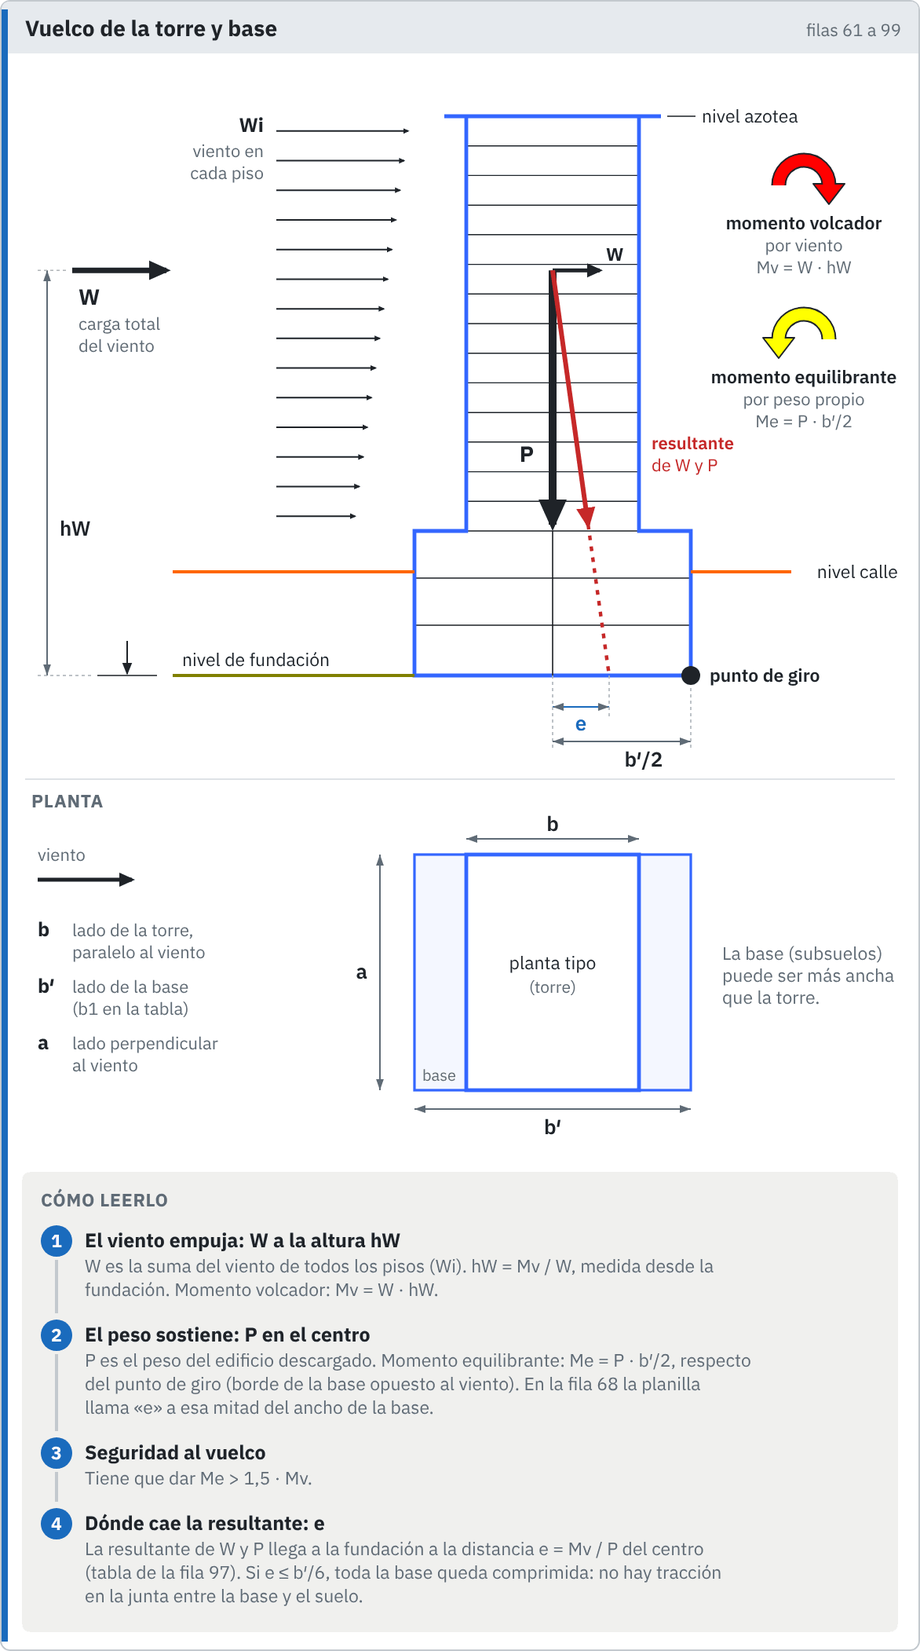
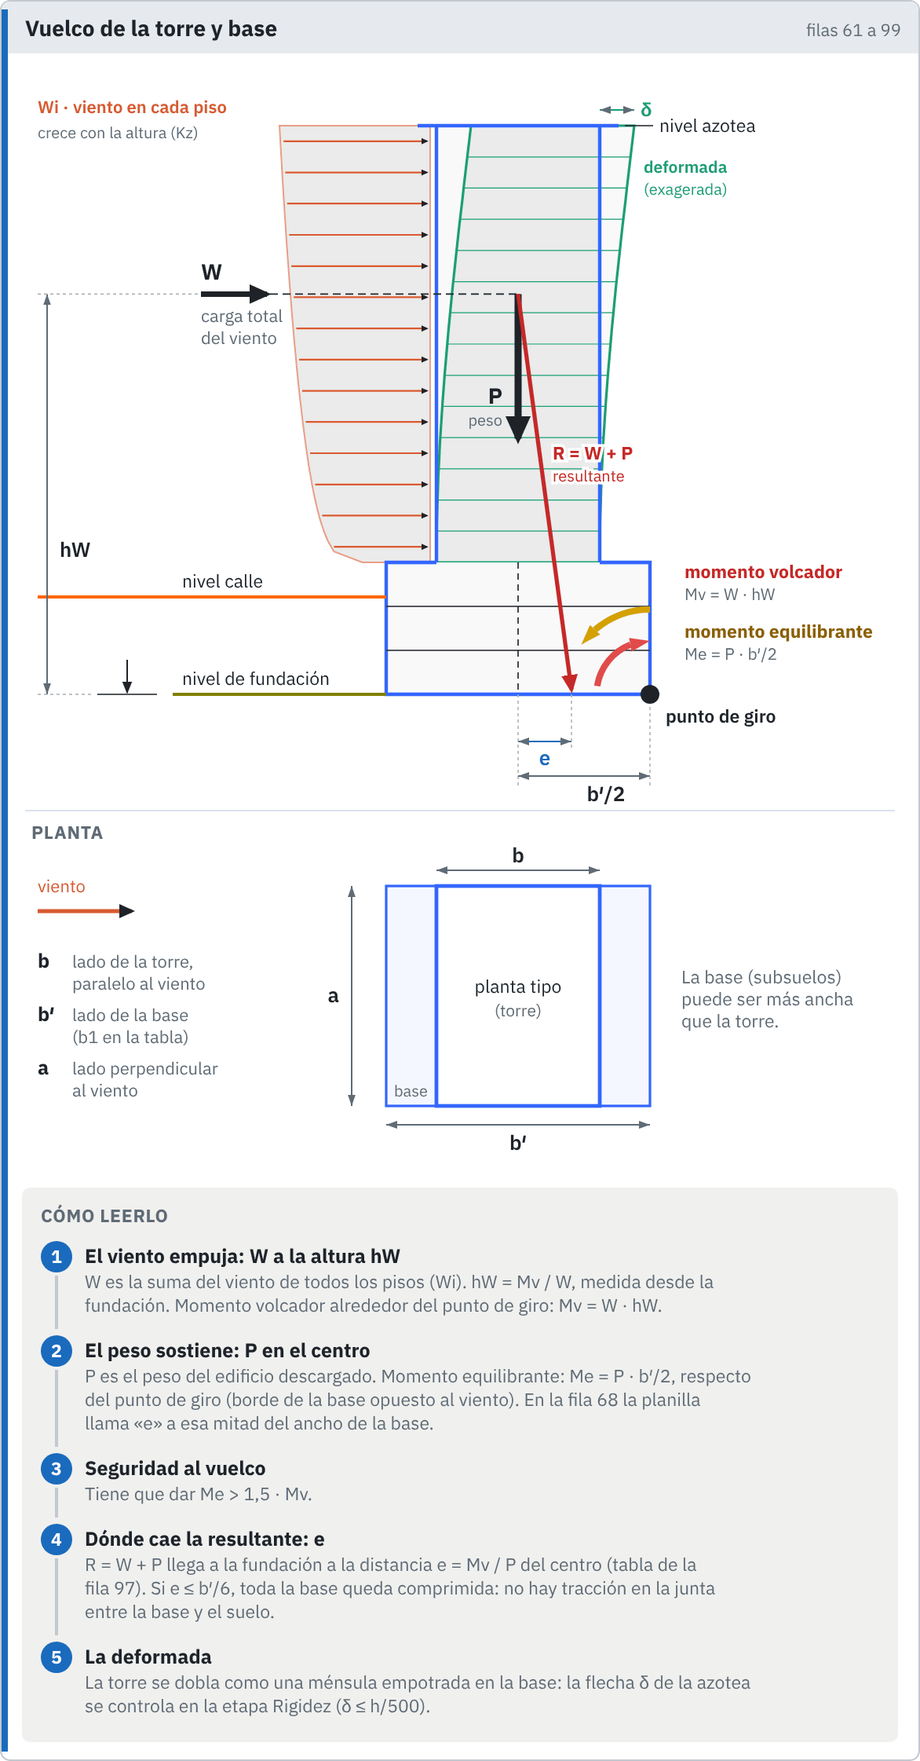
Flecha curva de momento única (app y dibujos del Excel) y tarjeta de vuelco con el corte de la carta
- geometriaArcoMomento (comp.ts) y arco_momento (tools/figuras): arco con la punta tangente al final, probado.
- Carta D: volcador y equilibrante alrededor del punto de giro con la flecha nueva.
- Tarjeta «Vuelco de la torre y base» del Excel: viento a barlovento como volumen con el perfil de Kz, torre
  deformada exagerada, W en hW, P, R = W + P, los dos momentos en el punto de giro, e y b′/2; planta y pasos.

Claude-Session: https://claude.ai/code/session_014N9uSksiC3ERVBoCBTermh

diff --git a/src/ui/carta.ts b/src/ui/carta.ts
@@ -8,6 +8,7 @@
  *      momentos en un plano al costado y las reacciones en PB, como en los esquemas de la clase.
  */
 import { fmt } from './estado';
+import { arcoMomento } from './comp';
 import type { DatosRotoPlano } from './rototraslacion';
 import type { Rototraslacion3D } from '../engine/diagramas';
 import { rectangulos, tipoDe, type Muro } from '../engine/modelo';
@@ -460,15 +461,9 @@ function axonometriaC(g: SVGElement, d: DatosCarta, ancho: number, alto: number)
 }
 
 // ------------------------------------------------------------------ D · Vuelco y tensiones en el suelo
-/** flecha curva (arco de círculo) con punta, para los momentos */
+/** flecha curva de momento (la misma de comp.ts): el arco termina en una punta tangente */
 function arco(g: SVGElement, cx: number, cy: number, r: number, a0: number, a1: number, clase: string) {
-  const p = (a: number) => ({ x: cx + r * Math.cos(a), y: cy - r * Math.sin(a) });
-  const A = p(a0), B = p(a1), grande = Math.abs(a1 - a0) > Math.PI ? 1 : 0, horario = a1 < a0 ? 1 : 0;
-  g.append(el('path', { d: `M${A.x.toFixed(1)},${A.y.toFixed(1)} A${r},${r} 0 ${grande} ${horario} ${B.x.toFixed(1)},${B.y.toFixed(1)}`, class: `ct-arco ${clase}` }));
-  // punta tangente al final del arco
-  const t = { x: -Math.sin(a1) * (a1 > a0 ? 1 : -1), y: -Math.cos(a1) * (a1 > a0 ? 1 : -1) };
-  const n = { x: -t.y, y: t.x }, L = 10, W = 5;
-  g.append(el('polygon', { points: `${B.x + t.x * 4},${B.y + t.y * 4} ${B.x - t.x * L + n.x * W},${B.y - t.y * L + n.y * W} ${B.x - t.x * L - n.x * W},${B.y - t.y * L - n.y * W}`, class: `ct-arco-punta ${clase}` }));
+  g.append(arcoMomento(cx, cy, r, a0, a1, `ct-arco ${clase}`, 3.5));
 }
 
 function vuelcoD(g: SVGElement, d: DatosCarta, ancho: number, alto: number) {
@@ -522,8 +517,8 @@ function vuelcoD(g: SVGElement, d: DatosCarta, ancho: number, alto: number) {
   cota(g, X(-v.bB / 2), Y(zF) + 70, X(v.bB / 2), Y(zF) + 70, `b' = ${fmt(v.bB, 2)} m`, 1);
   txt(g, X(-v.bB / 2) - 6, Y(zF) + 16, `núcleo central ±b'/6 = ±${fmt(v.nucleo, 2)}`, ok ? 'd-eje' : 'd-valor ct-rojo', 'end');
   // momentos alrededor del punto de giro: volcador (horario) y equilibrante (antihorario)
-  arco(g, giro.x, giro.y, 40, Math.PI * 0.95, Math.PI * 0.45, 'volcador');
-  arco(g, giro.x, giro.y, 62, Math.PI * 0.5, Math.PI * 0.92, 'equilibrante');
+  arco(g, giro.x, giro.y, 44, Math.PI * 0.97, Math.PI * 0.42, 'volcador');
+  arco(g, giro.x, giro.y, 70, Math.PI * 0.46, Math.PI * 0.95, 'equilibrante');
   txt(g, X(S / 2) + 8, Y(0) - 34, `Mv = ${fmt(v.Mv, 0)} tm volcador`, 'd-valor ct-rojo');
   txt(g, X(S / 2) + 8, Y(0) - 20, `Me = ${fmt(v.Me, 0)} tm equilibrante`, 'd-valor ct-amarillo');
   // tensiones en el suelo (compresión hacia abajo): barlovento Tmín, sotavento Tmáx

diff --git a/src/ui/comp.ts b/src/ui/comp.ts
@@ -167,3 +167,36 @@ export function aplicarMat(raiz: ParentNode) {
     e.innerHTML = mat(t); e.dataset.mat = '1';
   });
 }
+
+// ------------------------------------------------------------------ flecha curva de momento (SVG)
+const NS_SVG = 'http://www.w3.org/2000/svg';
+/**
+ * Geometría de la flecha curva de un momento alrededor de (cx, cy): arco de radio r desde el ángulo a0 hasta a1
+ * (radianes, antihorario positivo, con el eje y hacia arriba en la pantalla) y punta triangular tangente al final.
+ * Sin DOM, para poder probarla; la usan la carta, la rototraslación y los dibujos del Excel (tools/figuras, en Python).
+ */
+export function geometriaArcoMomento(cx: number, cy: number, r: number, a0: number, a1: number, ancho = 3): { d: string; punta: string } {
+  const p = (a: number) => ({ x: cx + r * Math.cos(a), y: cy - r * Math.sin(a) });
+  const s = a1 >= a0 ? 1 : -1;                                   // s = 1: antihorario en pantalla
+  const L = Math.max(8, ancho * 3.2), W = Math.max(5, ancho * 2.2);
+  const aFin = a1 - s * Math.min(Math.abs(a1 - a0) * 0.6, L / r);   // el arco termina donde empieza la punta
+  const A = p(a0), B = p(aFin), T = p(a1);
+  const grande = Math.abs(aFin - a0) > Math.PI ? 1 : 0, barrido = s > 0 ? 0 : 1;
+  const d = `M${A.x.toFixed(1)},${A.y.toFixed(1)} A${r},${r} 0 ${grande} ${barrido} ${B.x.toFixed(1)},${B.y.toFixed(1)}`;
+  const t = { x: T.x - B.x, y: T.y - B.y }, Lt = Math.hypot(t.x, t.y) || 1; t.x /= Lt; t.y /= Lt;
+  const n = { x: -t.y, y: t.x };
+  const punta = `${T.x.toFixed(1)},${T.y.toFixed(1)} ${(B.x + n.x * W / 2).toFixed(1)},${(B.y + n.y * W / 2).toFixed(1)} ${(B.x - n.x * W / 2).toFixed(1)},${(B.y - n.y * W / 2).toFixed(1)}`;
+  return { d, punta };
+}
+/** la flecha curva como grupo SVG: <path class="arco-trazo"> y <polygon class="arco-punta"> */
+export function arcoMomento(cx: number, cy: number, r: number, a0: number, a1: number, clase: string, ancho = 3): SVGGElement {
+  const { d, punta } = geometriaArcoMomento(cx, cy, r, a0, a1, ancho);
+  const g = document.createElementNS(NS_SVG, 'g');
+  g.setAttribute('class', `arco-momento ${clase}`);
+  const arco = document.createElementNS(NS_SVG, 'path');
+  arco.setAttribute('d', d); arco.setAttribute('fill', 'none'); arco.setAttribute('stroke-width', String(ancho)); arco.setAttribute('class', 'arco-trazo');
+  const pol = document.createElementNS(NS_SVG, 'polygon');
+  pol.setAttribute('points', punta); pol.setAttribute('stroke', 'none'); pol.setAttribute('class', 'arco-punta');
+  g.append(arco, pol);
+  return g;
+}

diff --git a/src/ui/comp.arco.test.ts b/src/ui/comp.arco.test.ts
@@ -1,0 +1,25 @@
+import { describe, expect, it } from 'vitest';
+import { geometriaArcoMomento } from './comp';
+
+const pts = (s: string) => s.trim().split(/\s+/).map(q => q.split(',').map(Number));
+describe('flecha curva de momento', () => {
+  it('la punta termina en el extremo del arco y apunta en el sentido del giro', () => {
+    for (const [a0, a1] of [[Math.PI * 0.95, Math.PI * 0.45], [Math.PI * 0.5, Math.PI * 0.92], [0, 1.5 * Math.PI], [1.5 * Math.PI, 0]]) {
+      const g = geometriaArcoMomento(100, 100, 40, a0, a1, 3);
+      const [tip, b1, b2] = pts(g.punta);
+      // la punta está sobre la circunferencia, en el ángulo final
+      expect(Math.hypot(tip[0] - 100, tip[1] - 100)).toBeCloseTo(40, 0);
+      expect(tip[0]).toBeCloseTo(100 + 40 * Math.cos(a1), 0); expect(tip[1]).toBeCloseTo(100 - 40 * Math.sin(a1), 0);
+      // la base también sobre la circunferencia (su punto medio), detrás de la punta en el sentido del giro
+      const m = [(b1[0] + b2[0]) / 2, (b1[1] + b2[1]) / 2];
+      expect(Math.hypot(m[0] - 100, m[1] - 100)).toBeCloseTo(40, 0);
+      const angM = Math.atan2(-(m[1] - 100), m[0] - 100), angT = Math.atan2(-(tip[1] - 100), tip[0] - 100);
+      const d = ((angT - angM + 3 * Math.PI) % (2 * Math.PI)) - Math.PI;
+      expect(Math.sign(d)).toBe(Math.sign(a1 - a0));
+      // el arco arranca en a0
+      const d0 = g.d;
+      const [x0, y0] = d0.slice(1).split(' ')[0].split(',').map(Number);
+      expect(x0).toBeCloseTo(100 + 40 * Math.cos(a0), 0); expect(y0).toBeCloseTo(100 - 40 * Math.sin(a0), 0);
+    }
+  });
+});

diff --git a/src/estilo.css b/src/estilo.css
@@ -605,9 +605,9 @@ tr.sel td { background: color-mix(in srgb, var(--accent) 12%, transparent); }
 .carta .ct-nucleo.ok { fill: color-mix(in srgb, var(--ok) 45%, transparent); }
 .carta .ct-nucleo.mal { fill: color-mix(in srgb, var(--mal) 45%, transparent); }
 .carta .ct-giro { fill: var(--ink); stroke: var(--lienzo); stroke-width: 1.5; }
-.carta .ct-arco { fill: none; stroke-width: 3.5; }
-.carta .ct-arco.volcador { stroke: var(--mal); } .carta .ct-arco-punta.volcador { fill: var(--mal); }
-.carta .ct-arco.equilibrante { stroke: var(--revisar); } .carta .ct-arco-punta.equilibrante { fill: var(--revisar); }
+.arco-momento .arco-trazo { fill: none; }
+.carta .ct-arco.volcador .arco-trazo { stroke: var(--mal); } .carta .ct-arco.volcador .arco-punta { fill: var(--mal); }
+.carta .ct-arco.equilibrante .arco-trazo { stroke: var(--revisar); } .carta .ct-arco.equilibrante .arco-punta { fill: var(--revisar); }
 .carta .ct-suelo-t { fill: color-mix(in srgb, var(--compresion) 22%, transparent); stroke: var(--compresion); stroke-width: 1.4; }
 .carta .ct-suelo-t.traccion { fill: color-mix(in srgb, var(--traccion) 22%, transparent); stroke: var(--traccion); }
 .et3d.giro { color: var(--ink); background: color-mix(in srgb, var(--lienzo) 80%, transparent); padding: 0 3px; border-radius: 3px; text-shadow: none; }

diff --git a/tools/figuras/figs.py b/tools/figuras/figs.py
@@ -156,74 +156,99 @@ def portico(H):
 
 # =================================================================== 5 · Torre: vuelco y base (M,NyQ, A72)
 def torre(H):
+    """Corte de la torre como el de la carta D: viento a barlovento como volumen, deformada exagerada, W en hW,
+    peso P, resultante, y los dos momentos alrededor del punto de giro. Planta y «cómo leerlo» debajo."""
     WC = 586                               # tarjeta de 586 px (columnas A a G): los textos de las columnas H a J quedan a la vista
     m, y0 = marco(WC, H, 'Vuelco de la torre y base', 'filas 61 a 99')
     o = [m]
-    cx = 352; yaz = y0 + 40; ycalle = yaz + 290; yfund = ycalle + 66
-    bt, bb = 110, 176
-    AZ = '#3366ff'
-    n = 14; ybase = ycalle - 26; dh = (ybase - yaz) / n
-    for i in range(n + 1): o.append(L(cx - bt / 2, yaz + i * dh, cx + bt / 2, yaz + i * dh, INK, .7))
-    for yy in (ybase + 30, ybase + 60): o.append(L(cx - bb / 2, yy, cx + bb / 2, yy, INK, .7))
-    o.append(f'<path d="M{cx - bt / 2 - 14},{yaz} H{cx + bt / 2 + 14} M{cx - bt / 2},{yaz} V{ybase} H{cx - bb / 2} V{yfund} H{cx + bb / 2} V{ybase} H{cx + bt / 2} V{yaz}" fill="none" stroke="{AZ}" stroke-width="2.4"/>')
-    o.append(L(cx, ybase, cx, yfund, INK, .8))
-    o.append(L(cx + bt / 2 + 18, yaz, cx + bt / 2 + 36, yaz, INK, .8) + T(cx + bt / 2 + 40, yaz + 4, 'nivel azotea', 11.5))
-    o.append(L(110, ycalle, cx - bb / 2, ycalle, '#ff6600', 2) + L(cx + bb / 2, ycalle, WC - 82, ycalle, '#ff6600', 2) + T(WC - 14, ycalle + 4, 'nivel calle', 11.5, 400, INK, 'end'))
+    AZ, NAR, VERDE_D = '#3366ff', '#d85a30', '#1d9e75'
+    cx = 330; yaz = y0 + 46; ycalle = yaz + 300; yfund = ycalle + 62
+    bt, bb = 104, 168
+    xa, xb = cx - bt / 2, cx + bt / 2
+    n = 14; ybase = ycalle - 22; dh = (ybase - yaz) / n
+    # --- viento a barlovento: volumen translúcido con el perfil de presiones (crece con la altura) y flechas Wi
+    perfil = lambda z: 0.45 + 0.55 * (z ** 0.29)          # z de 0 (PB) a 1 (azotea), como Kz
+    ancho_v = 96
+    pts = [(xa - 4, ybase)] + [(xa - 4 - ancho_v * perfil(k / 40), ybase - (ybase - yaz) * k / 40) for k in range(41)] + [(xa - 4, yaz)]
+    o.append(f'<polygon points="{" ".join(f"{x:.1f},{y:.1f}" for x, y in pts)}" fill="{NAR}" fill-opacity=".13" stroke="{NAR}" stroke-opacity=".55" stroke-width="1"/>')
+    for i in range(n):
+        yy = yaz + (i + .5) * dh; zrel = 1 - (i + .5) / n
+        x0w = xa - 4 - ancho_v * perfil(zrel)
+        o.append(f'<line x1="{x0w + 2:.1f}" y1="{yy:.1f}" x2="{xa - 6:.1f}" y2="{yy:.1f}" stroke="{NAR}" stroke-width="1.1" marker-end="url(#pg)"/>')
+    o.append(T(24, yaz - 8, 'Wi · viento en cada piso', 11, 600, NAR))
+    o.append(T(24, yaz + 8, 'crece con la altura (Kz)', 10, 400, INK2))
+    # --- torre sin deformar (gris) y deformada exagerada (verde), losas
+    o.append(R(xa, yaz, bt, ybase - yaz, '#f6f8fb', '#aab3bd', 1))
+    flecha_top = 22
+    defo = lambda z: flecha_top * (z ** 2) * (3 - z) / 2       # ménsula con carga repartida (forma)
+    izq = [(xa + defo(1 - k / 30), yaz + (ybase - yaz) * k / 30) for k in range(31)]
+    der = [(xb + defo(1 - k / 30), yaz + (ybase - yaz) * k / 30) for k in range(31)]
+    o.append(f'<polygon points="{" ".join(f"{x:.1f},{y:.1f}" for x, y in izq + der[::-1])}" fill="{VERDE_D}" fill-opacity=".10" stroke="{VERDE_D}" stroke-width="1.6"/>')
+    for i in range(1, n):
+        yy = yaz + i * dh; dz = defo(1 - i / n)
+        o.append(L(xa + dz, yy, xb + dz, yy, VERDE_D, .6))
+    o.append(T(xb + defo(1) + 6, yaz + 30, 'deformada', 10.5, 600, VERDE_D) + T(xb + defo(1) + 6, yaz + 44, '(exagerada)', 10, 400, VERDE_D))
+    o.append(cota(xb, yaz - 10, xb + flecha_top, yaz - 10, VERDE_D) + T(xb + flecha_top + 4, yaz - 6, 'δ', 12, 700, VERDE_D))
+    # subsuelos y base
+    for yy in (ybase + 28, ybase + 56): o.append(L(cx - bb / 2, yy, cx + bb / 2, yy, INK, .7))
+    o.append(f'<path d="M{xa},{ybase} H{cx - bb / 2} V{yfund} H{cx + bb / 2} V{ybase} H{xb}" fill="#eef1f5" stroke="{AZ}" stroke-width="2.2"/>')
+    o.append(f'<path d="M{xa - 12},{yaz} H{xb + 12}" stroke="{AZ}" stroke-width="2.2"/>' + L(xa, yaz, xa, ybase, AZ, 2.2) + L(xb, yaz, xb, ybase, AZ, 2.2))
+    for yy in (ybase + 28, ybase + 56): o.append(L(cx - bb / 2, yy, cx + bb / 2, yy, INK, .7))
+    o.append(L(cx, ybase, cx, yfund, INK, .8, '4 3'))
+    # niveles
+    o.append(L(xb + 16, yaz, xb + 34, yaz, INK, .8) + T(xb + 38, yaz + 4, 'nivel azotea', 11.5))
+    o.append(L(24, ycalle, cx - bb / 2, ycalle, '#ff6600', 2) + T(116, ycalle - 6, 'nivel calle', 11.5))
     o.append(L(110, yfund, cx - bb / 2, yfund, '#808000', 2) + T(116, yfund - 6, 'nivel de fundación', 11.5))
     o.append(L(62, yfund, 100, yfund, INK, .8) + f'<line x1="81" y1="{yfund - 22}" x2="81" y2="{yfund - 1}" stroke="{INK}" stroke-width="1" marker-end="url(#pn)"/>')
-    xw0 = 176
-    for i in range(n):
-        yy = yaz + (i + .5) * dh; largo = 84 - i * 2.6
-        o.append(f'<line x1="{xw0}" y1="{yy:.1f}" x2="{xw0 + largo:.1f}" y2="{yy:.1f}" stroke="{INK}" stroke-width="1" marker-end="url(#pg)"/>')
-    o.append(T(xw0 - 8, yaz + 10, 'Wi', 12.5, 700, INK, 'end') + T(xw0 - 8, yaz + 26, 'viento en', 11, 400, INK2, 'end') + T(xw0 - 8, yaz + 40, 'cada piso', 11, 400, INK2, 'end'))
-    yW = yaz + 5.2 * dh
-    o.append(f'<line x1="46" y1="{yW:.1f}" x2="106" y2="{yW:.1f}" stroke="{INK}" stroke-width="3.5" marker-end="url(#pg)"/>' + T(50, yW + 22, 'W', 14, 700))
-    o.append(T(50, yW + 38, 'carga total', 11, 400, INK2) + T(50, yW + 52, 'del viento', 11, 400, INK2))
-    o.append(f'<line x1="30" y1="{yfund}" x2="30" y2="{yW:.1f}" stroke="{INK2}" stroke-width="1" marker-start="url(#pf)" marker-end="url(#pf)"/>' + V(38, (yfund + yW) / 2 + 40, 'hW') + ext(24, yW, 44, yW) + ext(24, yfund, 60, yfund))
-    xP = cx; yP0 = yW
-    o.append(f'<line x1="{xP}" y1="{yP0:.1f}" x2="{xP}" y2="{ybase - 4}" stroke="{INK}" stroke-width="5" marker-end="url(#pg)"/>' + T(xP - 12, ybase - 44, 'P', 14, 700, INK, 'end'))
-    o.append(f'<line x1="{xP}" y1="{yP0:.1f}" x2="{xP + 30}" y2="{yP0:.1f}" stroke="{INK}" stroke-width="2.5" marker-end="url(#pg)"/>' + T(xP + 34, yP0 - 6, 'W', 11.5, 700))
-    xe = xP + 36
-    yr = ybase - 4; xr = xP + (xe - xP) * (yr - yP0) / (yfund - yP0)
-    o.append(f'<line x1="{xP}" y1="{yP0:.1f}" x2="{xr:.1f}" y2="{yr:.1f}" stroke="{ROJO}" stroke-width="3" marker-end="url(#pr)"/>' + L(xr, yr, xe, yfund, ROJO, 2.2, '3 4'))
-    xres = cx + bt / 2 + 8
-    o.append(T(xres, ybase - 52, 'resultante', 11, 600, ROJO) + T(xres, ybase - 38, 'de W y P', 11, 400, ROJO))
-    def giro(x, y, color, horario, r=16):
-        xa, xb = (x - r, x + r) if horario else (x + r, x - r)
-        d = f'M{xa},{y} A{r},{r} 0 0 {1 if horario else 0} {xb},{y}'
-        cab = f'<polygon points="{xb - 10},{y - 1} {xb + 10},{y - 1} {xb},{y + 12}" fill="{color}" stroke="{INK}" stroke-width="1" stroke-linejoin="round"/>'
-        return f'<path d="{d}" fill="none" stroke="{INK}" stroke-width="9.5"/>' + cab + f'<path d="{d} l0,1.5" fill="none" stroke="{color}" stroke-width="7.5"/>'
-    xm = 512
-    for yy, col, hor, t1, t2, t3 in ((yaz + 44, '#ff0000', True, 'momento volcador', 'por viento', 'Mv = W · hW'), (yaz + 142, '#ffff00', False, 'momento equilibrante', 'por peso propio', 'Me = P · b′/2')):
-        o.append(giro(xm, yy, col, hor) + T(xm, yy + 28, t1, 11.5, 600, INK, 'middle') + T(xm, yy + 42, t2, 11, 400, INK2, 'middle') + T(xm, yy + 56, t3, 11, 400, INK2, 'middle'))
-    o.append(f'<circle cx="{cx + bb / 2}" cy="{yfund}" r="6" fill="{INK}"/>' + T(cx + bb / 2 + 12, yfund + 4, 'punto de giro', 11.5, 600))
-    y1 = yfund + 20
+    # --- W en hW (medida desde la fundación) y su recta de acción hasta el eje
+    yW = yaz + 5.4 * dh
+    o.append(f'<line x1="{xa - 150}" y1="{yW:.1f}" x2="{xa - 108}" y2="{yW:.1f}" stroke="{INK}" stroke-width="3.5" marker-end="url(#pg)"/>' + T(xa - 150, yW - 9, 'W', 14, 700))
+    o.append(T(xa - 150, yW + 18, 'carga total', 11, 400, INK2) + T(xa - 150, yW + 32, 'del viento', 11, 400, INK2))
+    o.append(L(xa - 106, yW, cx, yW, INK, .8, '5 3'))
+    o.append(f'<line x1="30" y1="{yfund}" x2="30" y2="{yW:.1f}" stroke="{INK2}" stroke-width="1" marker-start="url(#pf)" marker-end="url(#pf)"/>' + V(38, (yfund + yW) / 2 + 40, 'hW') + ext(24, yW, xa - 152, yW) + ext(24, yfund, 60, yfund))
+    # --- P en el eje y resultante R = W + P, que llega a la fundación a e del centro
+    o.append(f'<line x1="{cx}" y1="{yW:.1f}" x2="{cx}" y2="{yW + 92:.1f}" stroke="{INK}" stroke-width="4.5" marker-end="url(#pg)"/>' + T(cx - 10, yW + 70, 'P', 14, 700, INK, 'end') + T(cx - 10, yW + 84, 'peso', 10, 400, INK2, 'end'))
+    xe = cx + 34
+    o.append(f'<line x1="{cx}" y1="{yW:.1f}" x2="{xe}" y2="{yfund - 3}" stroke="{ROJO}" stroke-width="2.6" marker-end="url(#pr)"/>')
+    HALO = ' stroke="#fff" stroke-width="3.5" paint-order="stroke"'
+    yR = (yW + ybase) / 2 + 20
+    o.append(T(cx + 22, yR, 'R = W + P', 11.5, 700, ROJO, extra=HALO) + T(cx + 22, yR + 14, 'resultante', 10, 400, ROJO, extra=HALO))
+    # --- punto de giro (borde de sotavento) y los dos momentos alrededor de él
+    xg = cx + bb / 2
+    o.append(f'<circle cx="{xg}" cy="{yfund}" r="6" fill="{INK}"/>' + T(xg + 10, yfund + 18, 'punto de giro', 11.5, 600))
+    o.append(arco_momento(xg, yfund, 34, math.pi * 0.95, math.pi * 0.5, '#e24b4a', 4))
+    o.append(arco_momento(xg, yfund, 54, math.pi * 0.5, math.pi * 0.8, '#d4a100', 4))
+    o.append(T(xg + 22, yfund - 74, 'momento volcador', 11.5, 700, '#c62828') + T(xg + 22, yfund - 60, 'Mv = W · hW', 10.5, 400, INK2))
+    o.append(T(xg + 22, yfund - 36, 'momento equilibrante', 11.5, 700, '#8a5f00') + T(xg + 22, yfund - 22, 'Me = P · b′/2', 10.5, 400, INK2))
+    # cotas e y b'/2
+    y1 = yfund + 30
     o.append(cota(cx, y1, xe, y1, ACC) + V((cx + xe) / 2, y1 + 15, 'e', 'middle', ACC) + ext(cx, yfund, cx, y1 + 28) + ext(xe, yfund, xe, y1 + 6))
-    o.append(cota(cx, y1 + 22, cx + bb / 2, y1 + 22) + V(cx + bb / 4 + 14, y1 + 38, 'b′/2', 'middle') + ext(cx + bb / 2, yfund + 8, cx + bb / 2, y1 + 28))
-    # planta
-    yp = yfund + 84
+    o.append(cota(cx, y1 + 22, xg, y1 + 22) + V(cx + bb / 4 + 14, y1 + 38, 'b′/2', 'middle') + ext(xg, yfund + 8, xg, y1 + 28))
+    # --- planta
+    yp = yfund + 92
     o.append(L(16, yp - 18, WC - 16, yp - 18, HAIR) + titulito(20, yp, 'PLANTA'))
-    pa = 150; ypl = yp + 30
+    pa = 140; ypl = yp + 30
     o.append(R(cx - bb / 2, ypl, bb, pa, '#f4f7ff', AZ, 1.6) + R(cx - bt / 2, ypl, bt, pa, '#fff', AZ, 2.4) + T(cx, ypl + pa / 2 - 2, 'planta tipo', 11.5, 400, INK, 'middle') + T(cx, ypl + pa / 2 + 13, '(torre)', 10.5, 400, INK2, 'middle'))
     o.append(T(cx - bb / 2 + 5, ypl + pa - 6, 'base', 10, 400, INK2))
     o.append(cota(cx - bt / 2, ypl - 10, cx + bt / 2, ypl - 10) + V(cx, ypl - 15, 'b', 'middle'))
     o.append(cota(cx - bb / 2, ypl + pa + 12, cx + bb / 2, ypl + pa + 12) + V(cx, ypl + pa + 28, 'b′', 'middle'))
     o.append(cota(cx - bb / 2 - 22, ypl, cx - bb / 2 - 22, ypl + pa) + V(cx - bb / 2 - 30, ypl + pa / 2 + 4, 'a', 'end'))
-    o.append(T(24, ypl + 4, 'viento', 11, 400, INK2) + f'<line x1="24" y1="{ypl + 16}" x2="84" y2="{ypl + 16}" stroke="{INK}" stroke-width="2.5" marker-end="url(#pg)"/>')
+    o.append(T(24, ypl + 4, 'viento', 11, 400, NAR) + f'<line x1="24" y1="{ypl + 16}" x2="84" y2="{ypl + 16}" stroke="{NAR}" stroke-width="2.5" marker-end="url(#pg)"/>')
     for i, (v, l1, l2) in enumerate((('b', 'lado de la torre,', 'paralelo al viento'), ('b′', 'lado de la base', '(b1 en la tabla)'), ('a', 'lado perpendicular', 'al viento'))):
-        yy = ypl + 52 + i * 36
+        yy = ypl + 52 + i * 34
         o.append(T(24, yy, v, 12.5, 700) + T(46, yy, l1, 11, 400, INK2) + T(46, yy + 14, l2, 11, 400, INK2))
-    xnota = cx + bb / 2 + 20
-    s, _ = notas(xnota, ypl + pa / 2 - 8, ['La base (subsuelos)', 'puede ser más ancha', 'que la torre.'], 14); o.append(s)
+    s_, _ = notas(cx + bb / 2 + 20, ypl + pa / 2 - 8, ['La base (subsuelos)', 'puede ser más ancha', 'que la torre.'], 14); o.append(s_)
+    # --- cómo leerlo
     y = ypl + pa + 52
     o.append(panel(14, y, WC - 28, H - y - 12)); y += 22
     o.append(titulito(26, y, 'CÓMO LEERLO'))
-    s, y = pasos(26, y + 16, [
-        ('El viento empuja: W a la altura hW', ['W es la suma del viento de todos los pisos (Wi). hW = Mv / W, medida desde la', 'fundación. Momento volcador: Mv = W · hW.']),
+    s_, y = pasos(26, y + 16, [
+        ('El viento empuja: W a la altura hW', ['W es la suma del viento de todos los pisos (Wi). hW = Mv / W, medida desde la', 'fundación. Momento volcador alrededor del punto de giro: Mv = W · hW.']),
         ('El peso sostiene: P en el centro', ['P es el peso del edificio descargado. Momento equilibrante: Me = P · b′/2, respecto', 'del punto de giro (borde de la base opuesto al viento). En la fila 68 la planilla', 'llama «e» a esa mitad del ancho de la base.']),
         ('Seguridad al vuelco', ['Tiene que dar Me > 1,5 · Mv.']),
-        ('Dónde cae la resultante: e', ['La resultante de W y P llega a la fundación a la distancia e = Mv / P del centro', '(tabla de la fila 97). Si e ≤ b′/6, toda la base queda comprimida: no hay tracción', 'en la junta entre la base y el suelo.'])]); o.append(s)
-    return o, y, duda(5, xres + 66, ybase - 50) + duda(6, cx + bb / 2 + 10, ypl + pa + 12)
+        ('Dónde cae la resultante: e', ['R = W + P llega a la fundación a la distancia e = Mv / P del centro (tabla de la', 'fila 97). Si e ≤ b′/6, toda la base queda comprimida: no hay tracción en la junta', 'entre la base y el suelo.']),
+        ('La deformada', ['La torre se dobla como una ménsula empotrada en la base: la flecha δ de la azotea', 'se controla en la etapa Rigidez (δ ≤ h/500).'])]); o.append(s_)
+    return o, y, duda(5, xe + 90, (yW + yfund) / 2 + 30) + duda(6, cx + bb / 2 + 10, ypl + pa + 12)
 
 # =================================================================== 6 · Aviso de niveles (viento, A59)
 def npt(H):

diff --git a/tools/figuras/base_fig.py b/tools/figuras/base_fig.py
@@ -1,3 +1,4 @@
+import math
 """Figuras de la planilla rediseñadas (tarjeta de la app + rótulos en el dibujo + paso a paso).
 Cada figura: SVG en píxeles de la hoja (se exporta a PNG 2×). Salida: fig_<nombre>.svg y figuras.html (vista)."""
 import json, html as _h
@@ -63,6 +64,21 @@ def pasos(x, y, items, lh=15):
 def notas(x, y, ls, lh=15, fill=INK2):
     return ''.join(T(x, y + k * lh, e(l), 11.5, 400, fill) for k, l in enumerate(ls)), y + len(ls) * lh
 def duda(n, x, y): return f'<circle cx="{x}" cy="{y}" r="9" fill="#fff" stroke="#b8401a" stroke-width="2"/>' + T(x, y + 4, n, 11, 700, '#b8401a', 'middle')
+
+def arco_momento(cx, cy, r, a0, a1, color, ancho=3.0):
+    """flecha curva de un momento (misma geometría que geometriaArcoMomento en src/ui/comp.ts)"""
+    p = lambda a: (cx + r * math.cos(a), cy - r * math.sin(a))
+    s = 1 if a1 >= a0 else -1
+    L, W_ = max(8, ancho * 3.2), max(5, ancho * 2.2)
+    a_fin = a1 - s * min(abs(a1 - a0) * 0.6, L / r)
+    A, B, T_ = p(a0), p(a_fin), p(a1)
+    grande = 1 if abs(a_fin - a0) > math.pi else 0
+    barrido = 0 if s > 0 else 1
+    d = f'M{A[0]:.1f},{A[1]:.1f} A{r},{r} 0 {grande} {barrido} {B[0]:.1f},{B[1]:.1f}'
+    tx, ty = T_[0] - B[0], T_[1] - B[1]; Lt = math.hypot(tx, ty) or 1; tx /= Lt; ty /= Lt
+    nx, ny = -ty, tx
+    punta = f'{T_[0]:.1f},{T_[1]:.1f} {B[0] + nx * W_ / 2:.1f},{B[1] + ny * W_ / 2:.1f} {B[0] - nx * W_ / 2:.1f},{B[1] - ny * W_ / 2:.1f}'
+    return f'<path d="{d}" fill="none" stroke="{color}" stroke-width="{ancho}"/><polygon points="{punta}" fill="{color}"/>'
 
 def svg(W, H, cuerpo): return f'<svg xmlns="http://www.w3.org/2000/svg" width="{W}" height="{H}" viewBox="0 0 {W} {H}">{DEFS}{cuerpo}</svg>'
 
